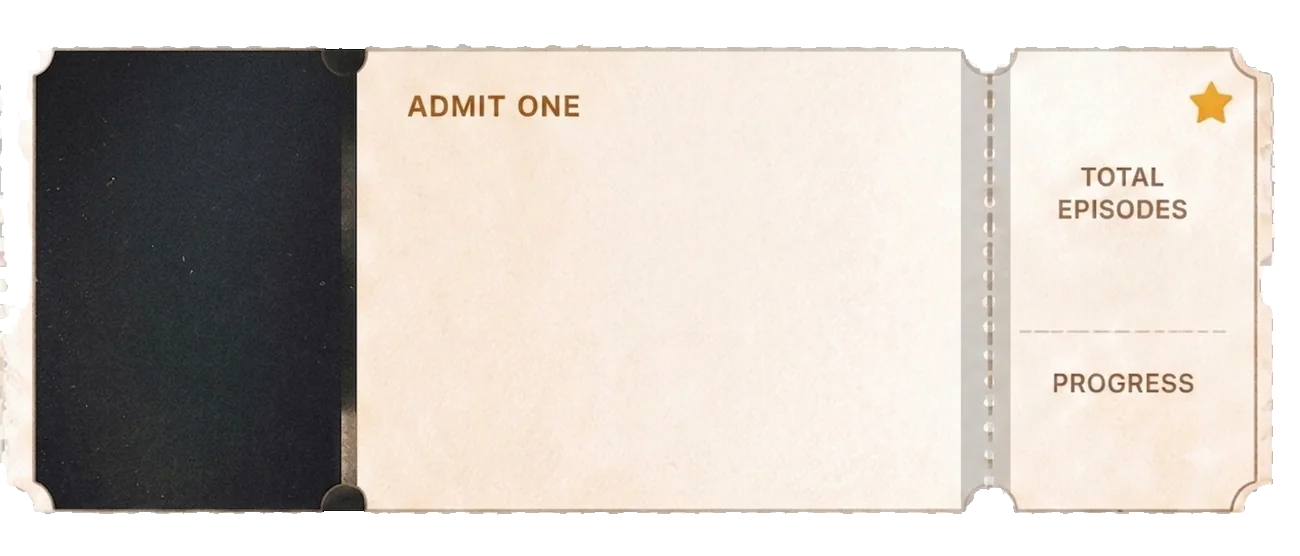
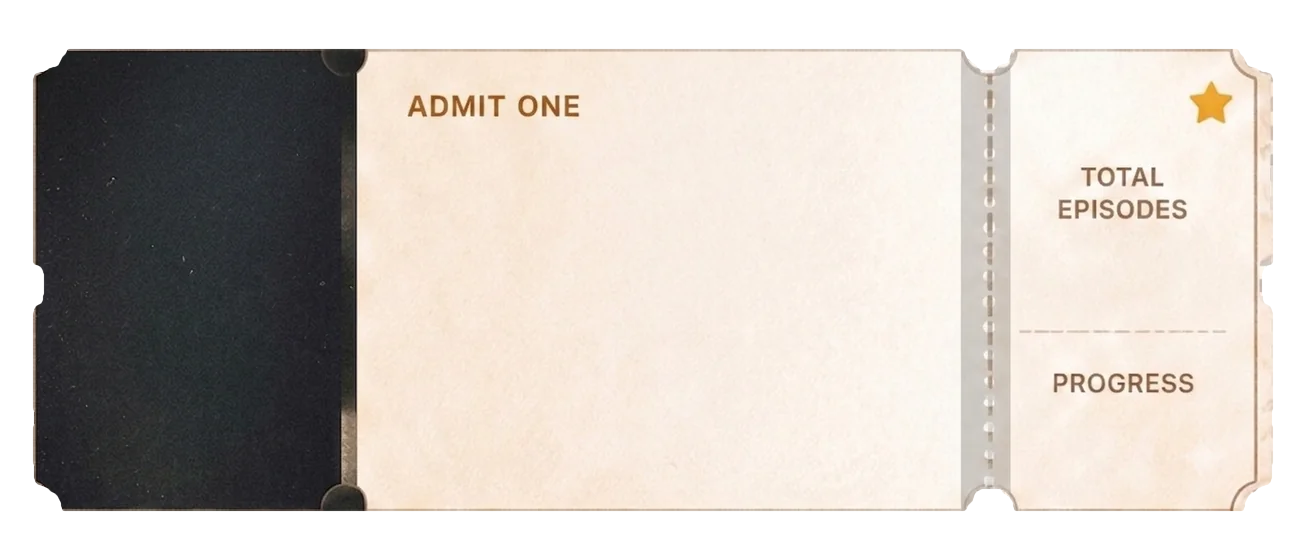
半券の切り抜きを作り直す＝暗い四角の背景と左端の端材を除去して券の形で表示
- premiere-pass: 暗背景を抜いて券の形に透過・影のフリンジ除去・ミシン目を透過穴に・券の実寸(1250×640)で切り抜き。PrepLaunch の重ね文字位置と aspect-ratio を新寸法で再計算
- collection-ticket: 左端のギザギザ余白と点線の切れ端を除去・4辺を直線化・縁をアンチエイリアス
- 共通: 半透明縁の背景色滲みを防止。design-src/README.md に再生成手順を記録
- 実機確認: 文字の重ね位置ズレなし・明/暗背景とも縁が綺麗

diff --git a/next-app/components/PrepLaunch.js b/next-app/components/PrepLaunch.js
@@ -75,21 +75,21 @@ export default function PrepLaunch() {
               <div className="pf-ticket-inner">
                 {/* 表＝プレミアパス。位置%(top/left)はテンプレ画像に合わせて要微調整(TUNE)。 */}
                 <div className="pf-face pf-front">
-                  <div className="pf-ov pf-ov-title" style={{ top: '45%', left: '42%' }}>
+                  <div className="pf-ov pf-ov-title" style={{ top: '44.1%', left: '41.8%' }}>
                     {enTitle}
                   </div>
                   {seLabel && (
-                    <div className="pf-ov pf-ov-se" style={{ top: '57%', left: '42%' }}>
+                    <div className="pf-ov pf-ov-se" style={{ top: '59.4%', left: '41.8%' }}>
                       {seLabel}
                     </div>
                   )}
-                  <div className="pf-ov pf-ov-result" style={{ top: '63%', left: '42%' }}>
+                  <div className="pf-ov pf-ov-result" style={{ top: '67%', left: '41.8%' }}>
                     TEST CLEARED
                   </div>
-                  <div className="pf-ov pf-ov-seat" style={{ top: '49%', left: '84.5%' }}>
+                  <div className="pf-ov pf-ov-seat" style={{ top: '49.2%', left: '86.4%' }}>
                     {seat}
                   </div>
-                  <div className="pf-ov pf-ov-date" style={{ top: '63%', left: '84.5%' }}>
+                  <div className="pf-ov pf-ov-date" style={{ top: '67%', left: '86.4%' }}>
                     {dateLabel}
                   </div>
                 </div>

diff --git a/next-app/app/style.css b/next-app/app/style.css
@@ -5158,7 +5158,7 @@ html[data-theme="dark"] .bottom-nav { background: var(--surface); }
 .pf-ticket-card {
   width: 100%;
   max-width: 440px;
-  aspect-ratio: 1312 / 816; /* テンプレ画像の実寸 */
+  aspect-ratio: 1250 / 640; /* テンプレ画像の実寸（2026-10-08 券の形に切り抜き・余白と暗背景を除去） */
   margin: 4px auto 0;
   perspective: 1400px;
   container-type: inline-size;

diff --git a/next-app/design-src/README.md b/next-app/design-src/README.md
@@ -1,0 +1,8 @@
+# design-src — 半券画像の原本（配信対象外）
+
+`public/premiere-pass.webp` / `public/collection-ticket.webp` の元 PNG。public/ には置かない（1〜2MB で表示が遅くなる）。
+
+2026-10-08 の切り抜き手順（Python + Pillow + scipy、再生成が必要になったら参考に）:
+- premiere-pass: 暗い背景(輝度 R+G+B ≤ 90)を外周からフラッドフィルで抜く → 最外層の暗い画素(影)を皮むき → ミシン目の点を透過穴にする → 券のバウンディングボックス+8px で切り抜き（1250×640）。切り抜き後は PrepLaunch.js の重ね文字の top/left % と style.css の aspect-ratio を再計算すること。
+- collection-ticket: 既存の二値αを opening(半径6)で端材除去 → 右辺の輪郭を左辺に鏡映 → 4辺を内側包絡で直線カット → 小さなへこみを closing で埋める（キャンバス 1300×556 は不変＝重ね位置はそのまま）。
+- 共通: マスクを σ0.9 でぼかしてアンチエイリアス、半透明縁の RGB は最寄りの不透明画素の色で置換（背景色の滲み防止）、`cwebp -q 85 -alpha_q 100 -exact`。
